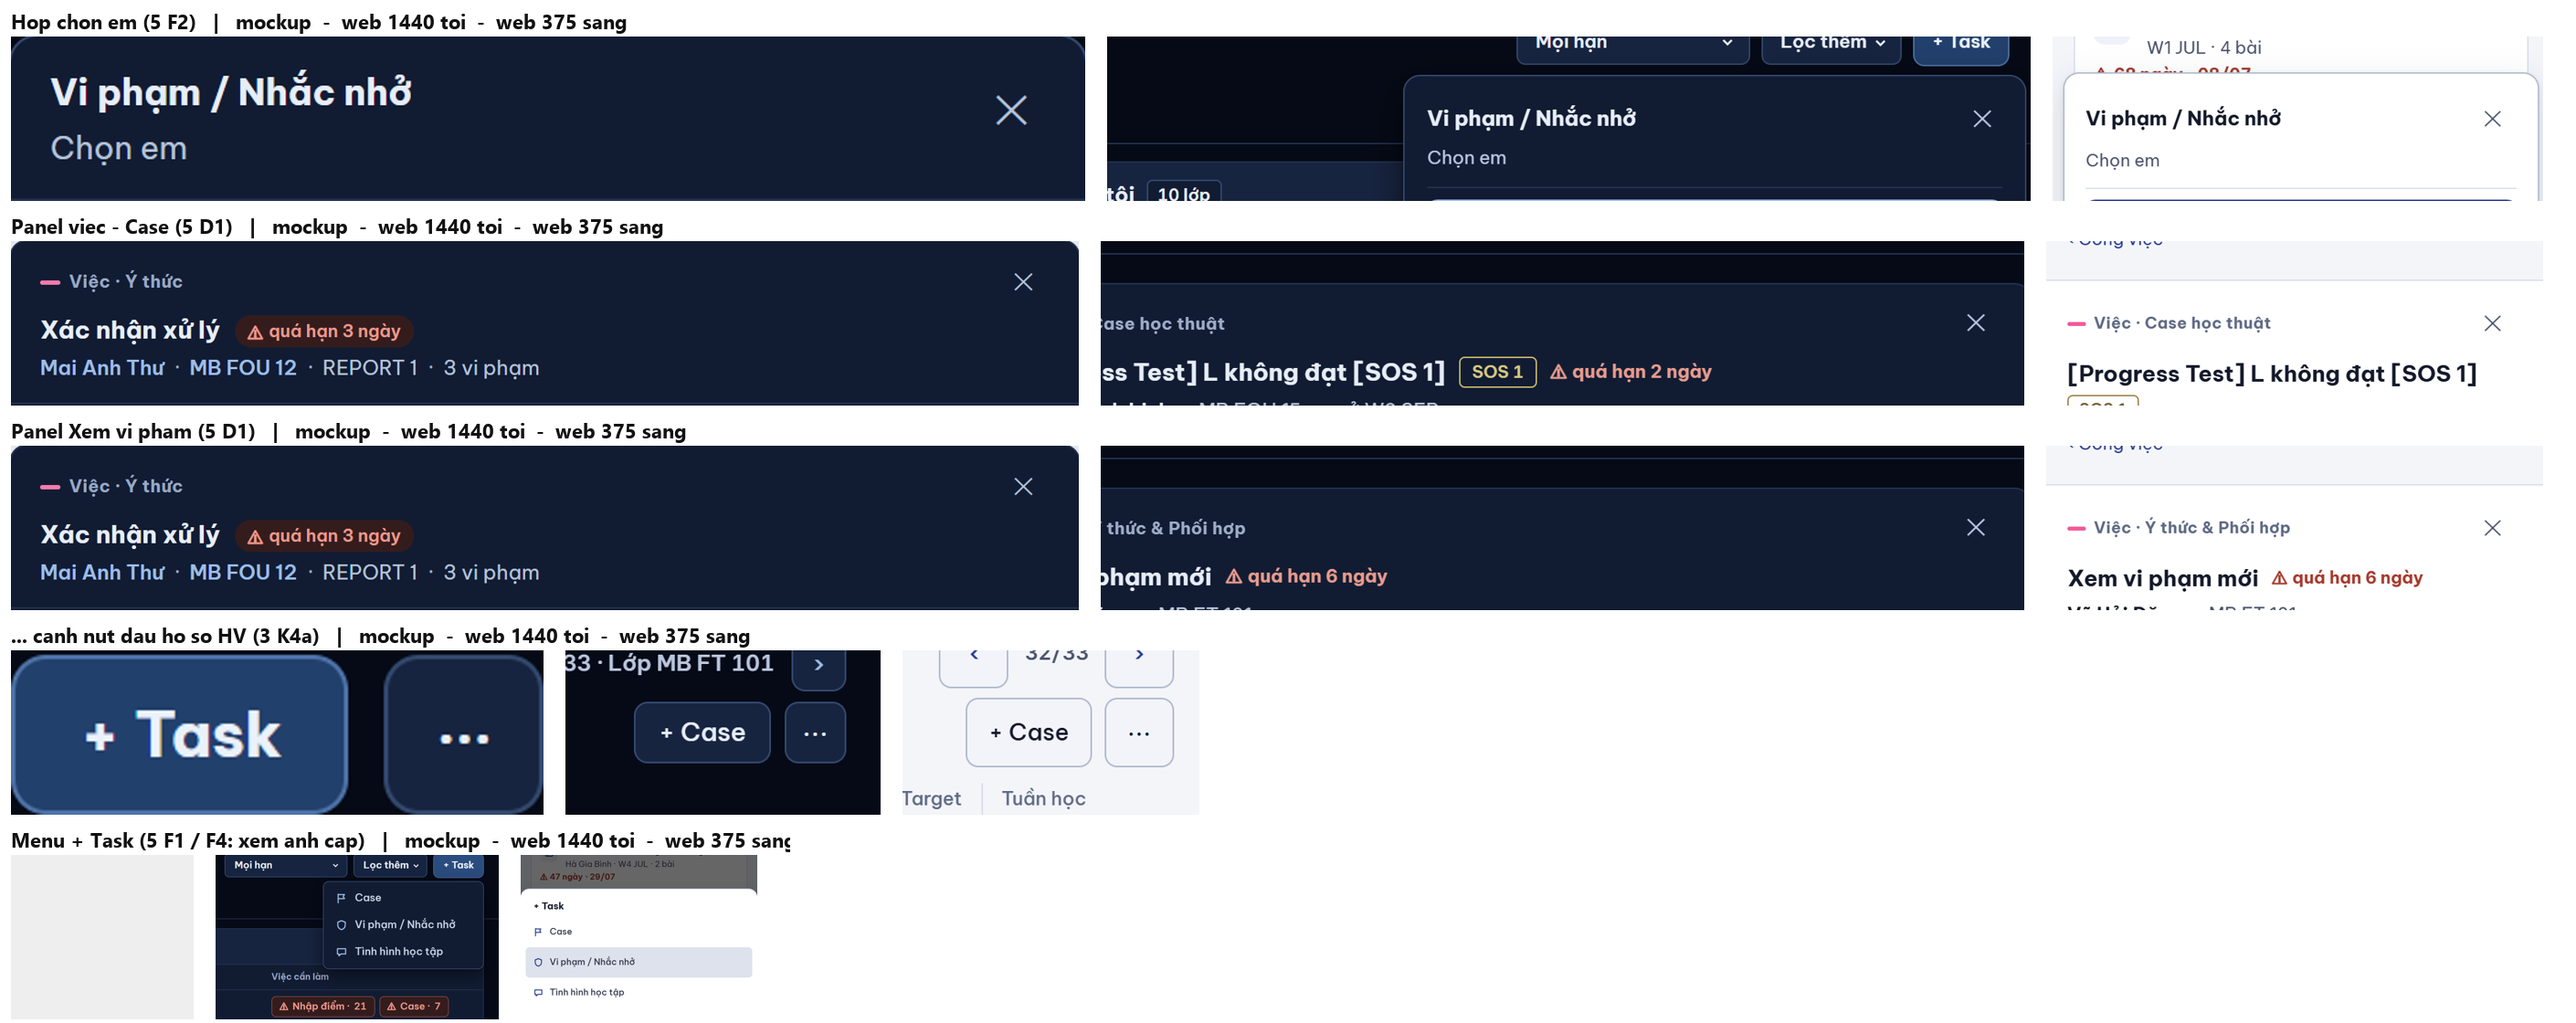
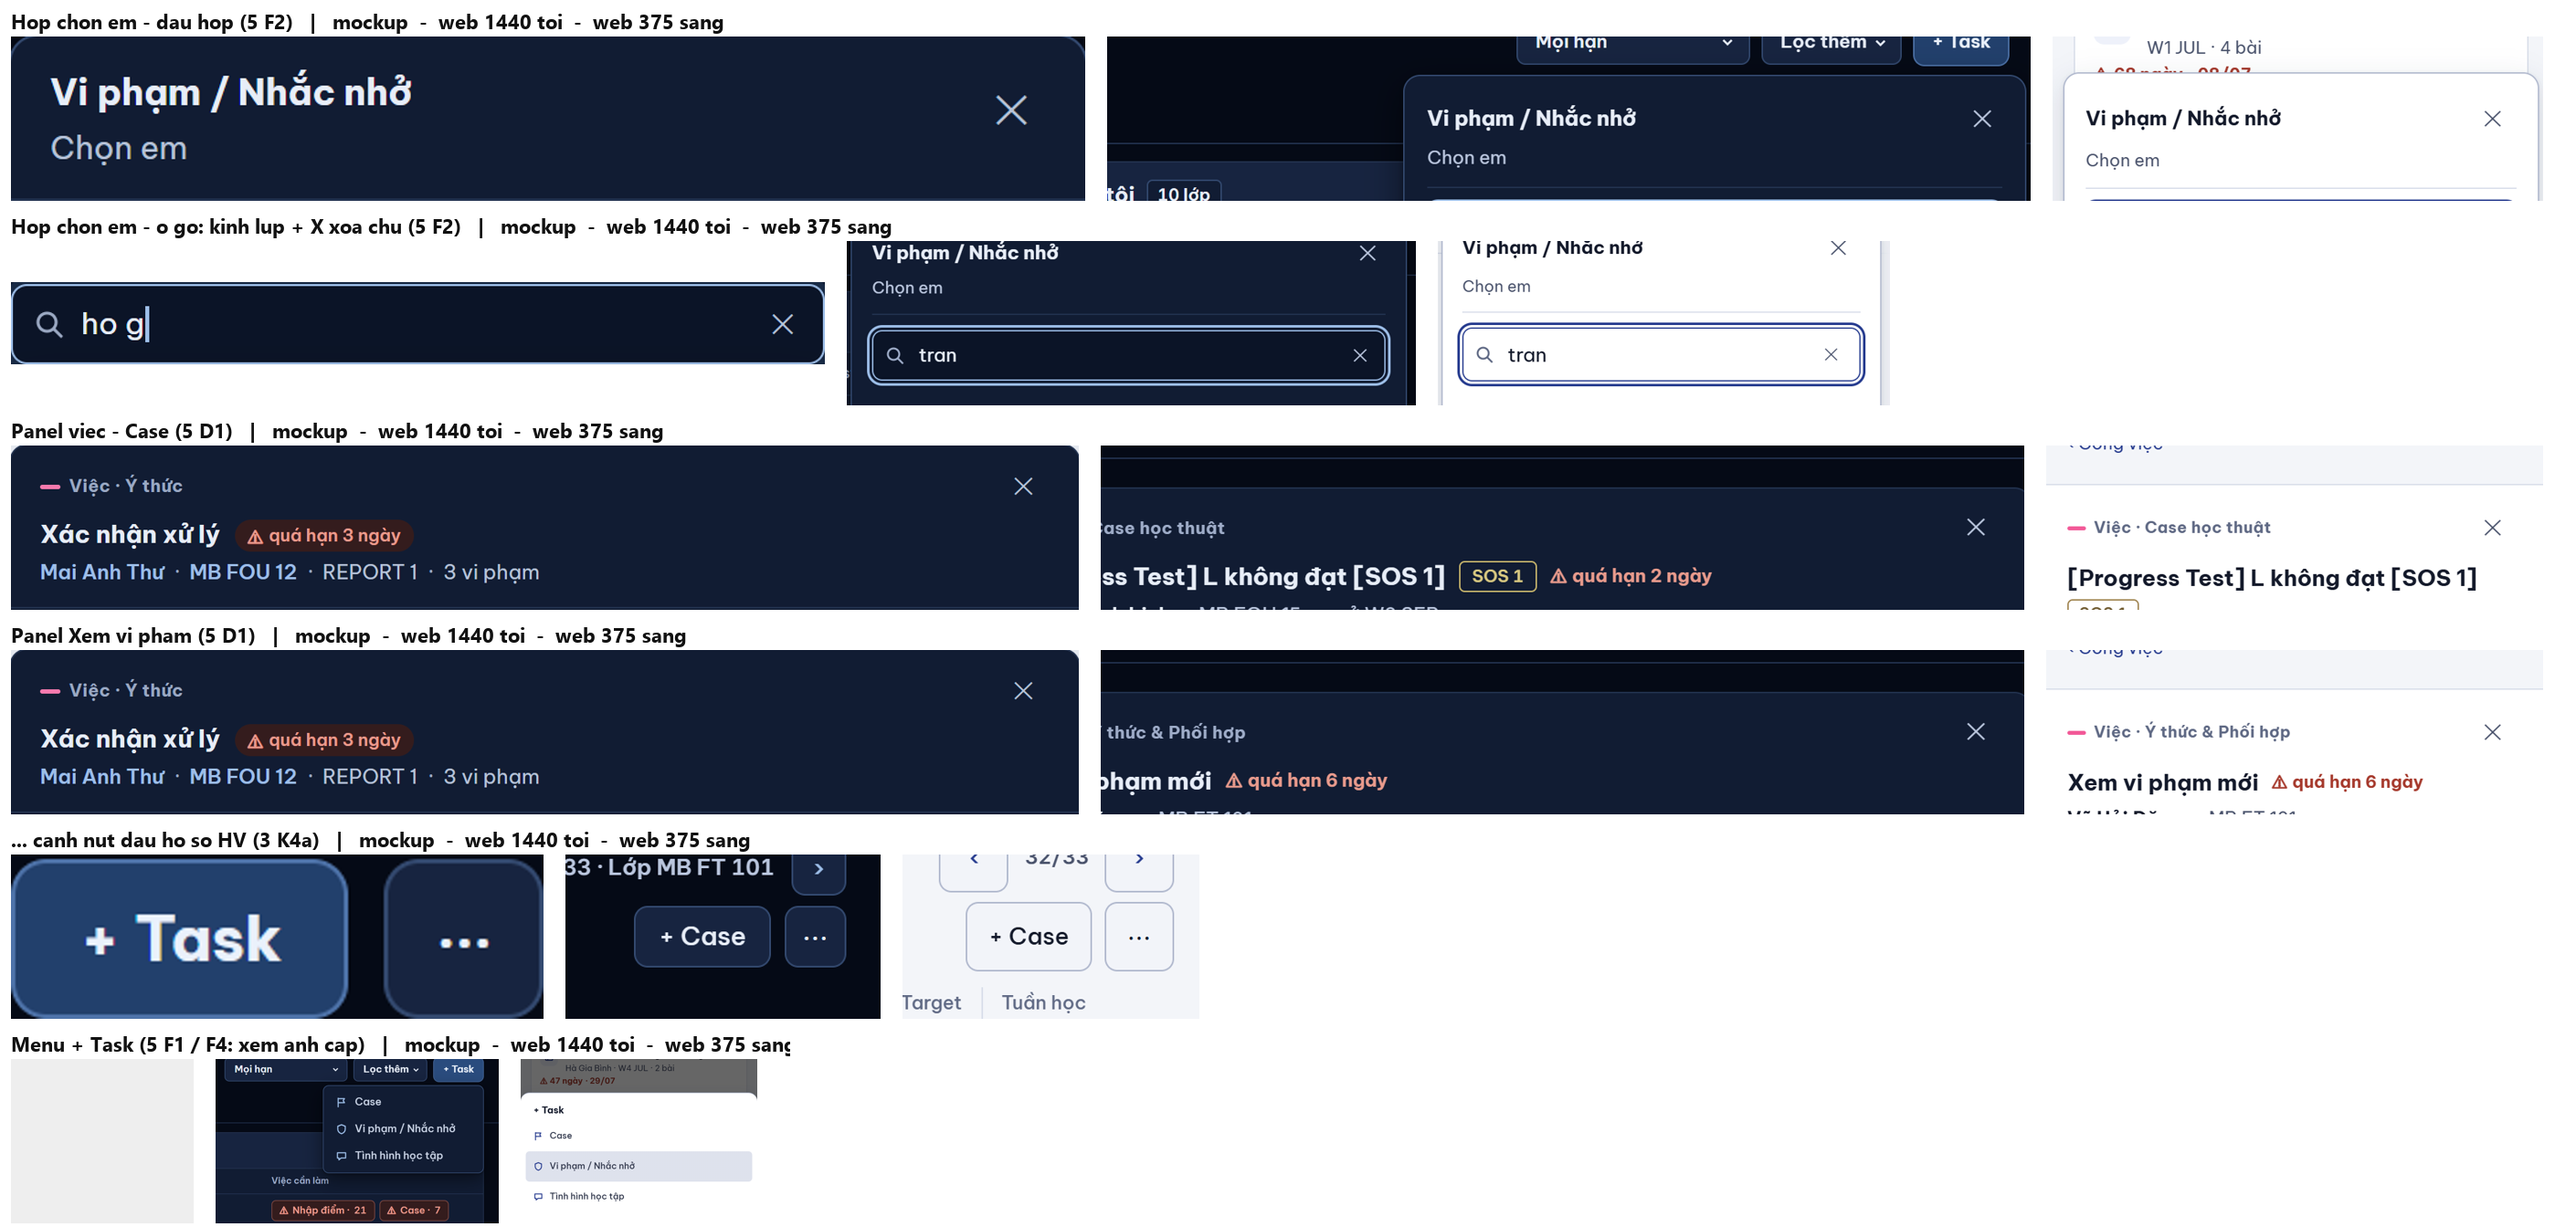
GD-4a: ô gõ hộp chọn em có kính lúp + ✕ xoá chữ (⑤ F2), NUT_DONG_NHO; bỏ KHÁC-4; ảnh + bảng đo

diff --git a/web/src/modules/congViec/NutTask.tsx b/web/src/modules/congViec/NutTask.tsx
@@ -3,7 +3,7 @@ import { api, invalidate } from '../../lib/api.ts';
 import { useSession } from '../../lib/session.tsx';
 import { MenuDong } from '../../ui/MenuDong.tsx';
 import { HopNeo } from '../../ui/HopNeo.tsx';
-import { NUT_DONG } from '../../ui/KhungPanel.tsx';
+import { NUT_DONG, NUT_DONG_NHO } from '../../ui/KhungPanel.tsx';
 import { useNgayNghiepVu } from '../../ui/ngayNghiepVu.ts';
 import { QuickReport } from '../cases/QuickReport.tsx';
 import { RecordViolationPanel } from '../yThuc/RecordViolationPanel.tsx';
@@ -121,7 +121,10 @@ function HopChonEm({ neo, loai, lopId, onDong, onChon }: {
           <span className="text-xs tabular-nums text-faint">{chon.length} / {TOI_DA_TINH_HINH}</span>
         </span>
       )}
-      <input ref={o} name="tim-em" autoComplete="off" spellCheck={false} className="field h-10 text-[15px] max-sm:h-11" role="combobox" aria-expanded={ds.length > 0} aria-controls="tim-em-task" aria-autocomplete="list"
+      {/* ⑤ F2 `.oc`: kính lúp trái · ✕ xoá chữ phải (chỉ khi có chữ, căn giữa theo cao ô; bấm = xoá, giữ focus ô). */}
+      <div className="relative">
+      <span aria-hidden className="pointer-events-none absolute left-2.5 top-1/2 -translate-y-1/2 text-faint"><IconNhom k="tim" /></span>
+      <input ref={o} name="tim-em" autoComplete="off" spellCheck={false} className={`field h-10 pl-9 text-[15px] max-sm:h-11 ${chu ? 'pr-10 max-sm:pr-12' : ''}`} role="combobox" aria-expanded={ds.length > 0} aria-controls="tim-em-task" aria-autocomplete="list"
         aria-label={t('Gõ tên em')} placeholder={t('Gõ tên em…')} value={chu} disabled={nhieu && chon.length >= TOI_DA_TINH_HINH}
         aria-activedescendant={ds[dang] ? `tim-em-${ds[dang].id}` : undefined}
         onChange={(e) => setChu(e.target.value)}
@@ -129,6 +132,11 @@ function HopChonEm({ neo, loai, lopId, onDong, onChon }: {
           if (e.key === 'ArrowDown' || e.key === 'ArrowUp') { e.preventDefault(); if (ds.length) setDang((i) => (i + (e.key === 'ArrowDown' ? 1 : ds.length - 1)) % ds.length); }
           else if (e.key === 'Enter' && ds[dang]) { e.preventDefault(); lay(ds[dang]); }
         }} />
+      {chu && (
+        <button type="button" aria-label={t('Xoá chữ')} className={`${NUT_DONG_NHO} absolute right-1.5 top-1/2 -translate-y-1/2`}
+          onMouseDown={(e) => e.preventDefault()} onClick={() => { setChu(''); o.current?.focus(); }}>✕</button>
+      )}
+      </div>
       {ds.length > 0 && (
         <ul id="tim-em-task" role="listbox" aria-label={t('Học viên')} className="m-0 grid max-h-[288px] list-none overflow-y-auto p-0">
           {ds.map((e, i) => [

diff --git a/web/src/ui/KhungPanel.tsx b/web/src/ui/KhungPanel.tsx
@@ -173,6 +173,9 @@ export const QuayLaiPanel = createContext<{ nhan: string; onClick: () => void; x
  */
 export const NUT_DONG = 'grid h-9 w-9 shrink-0 cursor-pointer place-items-center rounded-lg border-0 bg-transparent p-0 text-[17px] leading-none text-dim hover:bg-[rgb(var(--phu-rgb)/0.1)] hover:text-[color:var(--text)] max-sm:h-11 max-sm:w-11';
 
+/** Bản nhỏ của `NUT_DONG` — ✕ xoá chữ TRONG ô gõ (mockup ⑤ `.oc .bo`: ô 28, ✕ 14; điện thoại 36 trong ô 44). Nơi đặt căn giữa theo chiều cao ô. */
+export const NUT_DONG_NHO = 'grid h-7 w-7 shrink-0 cursor-pointer place-items-center rounded-md border-0 bg-transparent p-0 text-sm leading-none text-dim hover:bg-[color:var(--accent-soft)] hover:text-[color:var(--text)] max-sm:h-9 max-sm:w-9';
+
 export function KhungPanel({ tieuDe, hocVien, lop, rong: rongRieng, tabs, vungTab, ngCanh, quayLai: quayLaiRieng, chan, quyChe, daSua: daSuaRieng, longTrong, z = 'z-50', dau, loai, anDau = false, hd, onDong, children }: {
   tieuDe: string;
   /** U02: khung trong cột đã có dòng đầu riêng (dòng tóm tắt Case) — không vẽ đầu panel khi không có "‹ view trước". */

diff --git a/web/src/modules/congViec/DanhSachViec.tsx b/web/src/modules/congViec/DanhSachViec.tsx
@@ -57,6 +57,8 @@ const DUONG_IC: Record<string, ReactNode> = {
   'bo-sung': <><path d="M4 2.5h5l3 3v8H4z" /><path d="M9 2.5v3h3" /></>,
   /* GD-4a (mockup ⑤ F1 `i-bao`): Tình hình học tập — bóng lời. */
   'tinh-hinh': <path d="M2.5 3.5h11v7h-6l-3 2.5v-2.5h-2z" />,
+  /* GD-4a (mockup ⑤ `i-tim`): kính lúp đầu ô gõ tìm. */
+  tim: <><circle cx="7" cy="7" r="4.5" /><path d="M10.5 10.5L14 14" /></>,
   duyet: <><circle cx="8" cy="8" r="5.5" /><path d="M5.6 8.2l1.7 1.7 3.2-3.4" /></>,
   /* BO-QUA-XEP-MT: "Đã bỏ qua" — mắt gạch. */
   'bo-qua': <><path d="M2 8s2.2-4 6-4 6 4 6 4-2.2 4-6 4-6-4-6-4z" /><circle cx="8" cy="8" r="1.8" /><path d="M3 13L13 3" /></>,

diff --git a/shared/i18n/en/gd4.ts b/shared/i18n/en/gd4.ts
@@ -3,5 +3,6 @@ import type { Dich } from '../en.ts';
 
 export const EN_GD4 = {
   'Không hạn': 'No due date',
+  'Xoá chữ': 'Clear text',
   '{n} bài, {q} quá hạn': (b) => `${b.n} items, ${b.q} overdue`,
 } satisfies Record<string, Dich>;
